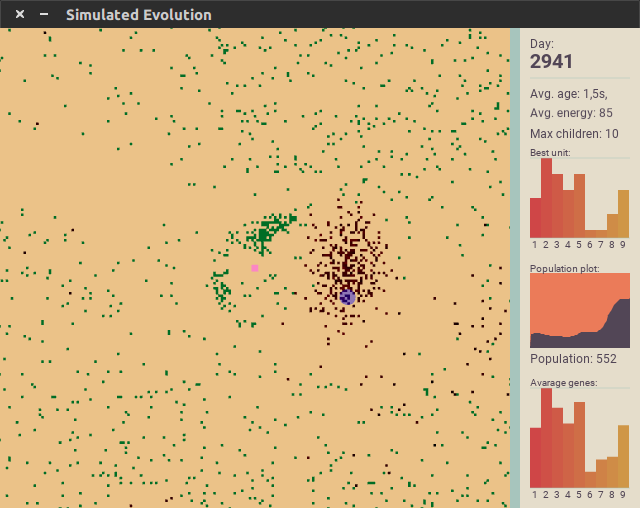
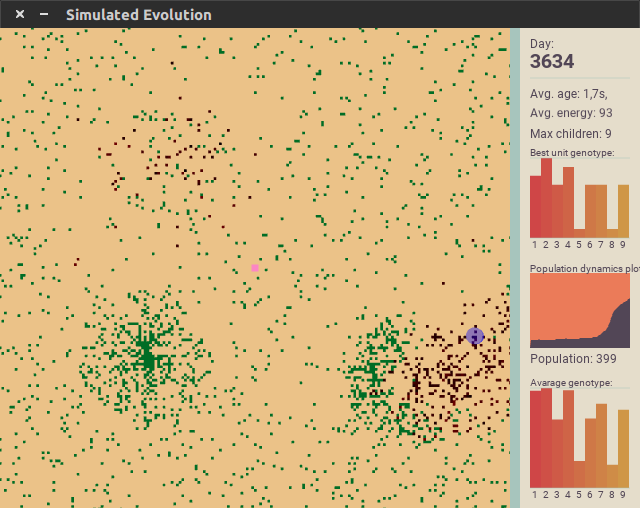
screenshot

diff --git a/src/Main.java b/src/Main.java
@@ -123,7 +123,7 @@ public class Main extends PApplet {
         stroke(167,197,189);
         strokeWeight(0.5f);
         line(width - 110, 50, width - 10, 50);
-
+        noStroke();
         textFont(font);
         text("Avg. age: " + world.avarageLifeTime() +
             "s,\nAvg. energy: " + world.avarageEnergy() , width - statBarWidth + statLeftPadding + statBarBoarderWidth, 70);
@@ -131,15 +131,15 @@ public class Main extends PApplet {
 
         textFont(fontSmall);
         alfaAnimalPlot.drawPlot(width - statBarWidth + statLeftPadding + statBarBoarderWidth, 210);
-        text("Best unit:", width - statBarWidth + statLeftPadding + statBarBoarderWidth, 128);
+        text("Best unit genotype:", width - statBarWidth + statLeftPadding + statBarBoarderWidth, 128);
 
         textFont(font);
         popCountPlot.drawPlot(width - statBarWidth + statLeftPadding + statBarBoarderWidth, height - 160);
         textFont(fontSmall);
-        text("Population plot:", width - statBarWidth + statLeftPadding + statBarBoarderWidth, height-236);
+        text("Population dynamics plot:", width - statBarWidth + statLeftPadding + statBarBoarderWidth, height-236);
 
         plot.drawPlot(width - statBarWidth + statLeftPadding + statBarBoarderWidth, height - 20);
-        text("Avarage genes:", width - statBarWidth + statLeftPadding + statBarBoarderWidth, height-122);
+        text("Avarage genotype:", width - statBarWidth + statLeftPadding + statBarBoarderWidth, height-122);
 
         day++;
         image(worldScreen, 0, 0);
